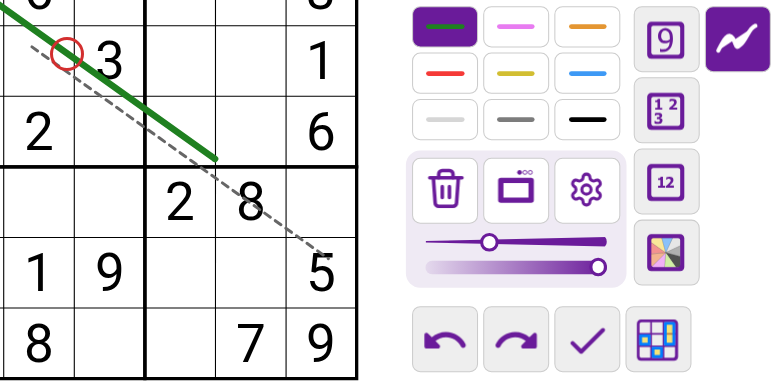
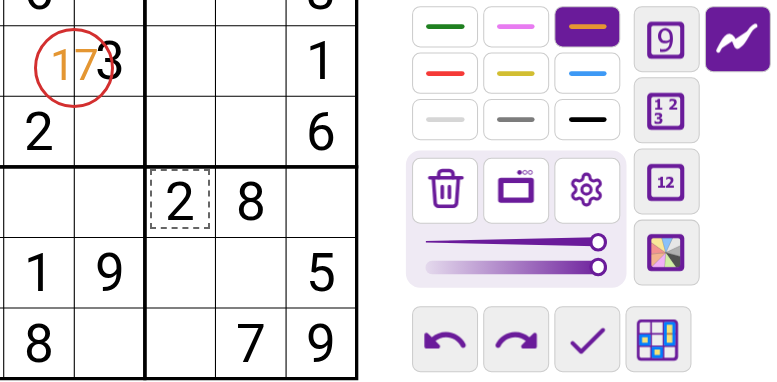
Draw Tool: keep a moved item on the board, check the live move, text-only Move on the site
Closes #403

diff --git a/site/draw-tool.html b/site/draw-tool.html
@@ -24,7 +24,7 @@
       <img class="slide" src="https://raw.githubusercontent.com/caneff/sudokupad-scripts/main/docs/research/draw-tool/draw-tool-slide-7-colors.png?v=c6a0412" alt="A color picker over each of the nine color buttons, with the line recolored from orange to teal" width="777" height="382">
       <img class="slide" src="https://raw.githubusercontent.com/caneff/sudokupad-scripts/main/docs/research/draw-tool/draw-tool-slide-8-erase.png?v=a87298f" alt="A red ring on a green line, where a right click lands" width="777" height="382">
       <img class="slide" src="https://raw.githubusercontent.com/caneff/sudokupad-scripts/main/docs/research/draw-tool/draw-tool-slide-9-erased.png?v=c35484b" alt="The board with the green line gone" width="777" height="382">
-      <img class="slide" src="https://raw.githubusercontent.com/caneff/sudokupad-scripts/main/docs/research/draw-tool/draw-tool-slide-10-move.png?v=ef0d270" alt="A green line dragged to a new place, its old place dashed, with a ring on the point it is held by" width="777" height="382">
+      <img class="slide" src="https://raw.githubusercontent.com/caneff/sudokupad-scripts/main/docs/research/draw-tool/draw-tool-slide-10-move.png?v=37f40f6" alt="An orange 17 dragged to a new place, its old place dashed, with a ring on the point it is held by" width="777" height="382">
     </div>
     <div class="slide-bar">
       <div class="slide-captions">
@@ -37,7 +37,7 @@
       <p class="slide-caption">Your own colors: hold a color button</p>
       <p class="slide-caption">Erase: right-click a line</p>
       <p class="slide-caption">The whole line is gone</p>
-      <p class="slide-caption">Move: drag a line, shape or text</p>
+      <p class="slide-caption">Move: drag a text</p>
       </div>
     </div>
   </div>
@@ -49,7 +49,7 @@
     <li><strong>Text</strong> <p>Click without dragging to type, such as a cage sum. Enter or a click elsewhere finishes it, Escape drops it, and a click on text changes it.</p></li>
     <li><strong>Colors of its own</strong> <p>Nine colors that belong to Draw Tool, not to SudokuPad's pen. Pick one with a click or the digit keys 1 to 9.</p></li>
     <li><strong>Size and opacity</strong> <p>Two sliders. A line, shape or text keeps the size and opacity it was drawn with.</p></li>
-    <li><strong>Move</strong> <p>Drag a line, shape or text to move it. A click on text still changes it, and a drag that starts on empty board still draws.</p></li>
+    <li><strong>Move</strong> <p>Drag a text to move it. A click on text still changes it, and a drag that starts anywhere else draws as before.</p></li>
     <li><strong>Erasing</strong> <p>Right-click a line, shape or text to erase it. Clear all, in the panel, erases everything.</p></li>
     <li><strong>Settings</strong> <p>Color presets, a color picker for each of the nine colors, and Copy and Paste to move them to another browser.</p></li>
     <li><strong>Stays on the cells</strong> <p>Drawings stay put, and stay visible when you switch back to entering digits.</p></li>

diff --git a/draw-tool.user.js b/draw-tool.user.js
@@ -261,7 +261,6 @@
     },
     text: (item, by) => ({ ...item, at: shifted(item.at, by) })
   }
-  // A copy of the item moved by the offset `by`.
   const movedItem = (item, by) => MOVES[item.kind](item, by)
 
   // A press whose every point stays within the slop of where it began.
@@ -1027,7 +1026,7 @@
     })
   }
 
-  // A left-drag in progress: a free line, or a shape when `shape` is set. `element` is what it shows on the board so far.
+  // A left-drag in progress: a free line, a shape when `shape` is set, or a move of the item `move` names. `element` is what it shows on the board so far.
   // `straight` is whether Shift is held, which draws a free line straight.
   let drag = null
   // A right-drag in progress: the last point it reached and whether it has erased an item yet. The right button's `buttons` bit holds it.
@@ -1189,16 +1188,16 @@
     save()
   }
 
-  // The offset of the drag's latest point from where it began.
   const dragOffset = () => {
     const [x, y] = drag.points[0]
     const [lastX, lastY] = drag.points[drag.points.length - 1]
     return [lastX - x, lastY - y]
   }
 
+  const applyMove = () => { drawing[drag.move.index] = movedItem(drag.move.item, dragOffset()) }
+
   function endMove () {
-    const { index, item } = drag.move
-    drawing[index] = movedItem(item, dragOffset())
+    applyMove()
     drag = null
     renderDrawing()
     save()
@@ -1323,11 +1322,13 @@
         return true
       }
       if (!drag) return false
+      // An item stays where a press on it can still reach it: a move ends at the last point on the board.
+      if (drag.move && !onBoard(event)) return true
       drag.points.push(toBoard(drag.layer, event))
       drag.straight = event.shiftKey
       if (drag.move) {
         if (!isClick(drag.points)) {
-          drawing[drag.move.index] = movedItem(drag.move.item, dragOffset())
+          applyMove()
           renderDrawing()
         }
       } else if (drag.shape) {

diff --git a/site/index.html b/site/index.html
@@ -114,7 +114,7 @@
         <img class="slide" src="https://raw.githubusercontent.com/caneff/sudokupad-scripts/main/docs/research/draw-tool/draw-tool-slide-7-colors.png?v=c6a0412" alt="A color picker over each of the nine color buttons, with the line recolored from orange to teal" width="777" height="382">
         <img class="slide" src="https://raw.githubusercontent.com/caneff/sudokupad-scripts/main/docs/research/draw-tool/draw-tool-slide-8-erase.png?v=a87298f" alt="A red ring on a green line, where a right click lands" width="777" height="382">
         <img class="slide" src="https://raw.githubusercontent.com/caneff/sudokupad-scripts/main/docs/research/draw-tool/draw-tool-slide-9-erased.png?v=c35484b" alt="The board with the green line gone" width="777" height="382">
-        <img class="slide" src="https://raw.githubusercontent.com/caneff/sudokupad-scripts/main/docs/research/draw-tool/draw-tool-slide-10-move.png?v=ef0d270" alt="A green line dragged to a new place, its old place dashed, with a ring on the point it is held by" width="777" height="382">
+        <img class="slide" src="https://raw.githubusercontent.com/caneff/sudokupad-scripts/main/docs/research/draw-tool/draw-tool-slide-10-move.png?v=37f40f6" alt="An orange 17 dragged to a new place, its old place dashed, with a ring on the point it is held by" width="777" height="382">
       </div>
       <div class="slide-bar">
         <div class="slide-captions">
@@ -127,7 +127,7 @@
         <p class="slide-caption">Your own colors: hold a color button</p>
         <p class="slide-caption">Erase: right-click a line</p>
         <p class="slide-caption">The whole line is gone</p>
-        <p class="slide-caption">Move: drag a line, shape or text</p>
+        <p class="slide-caption">Move: drag a text</p>
         </div>
       </div>
     </div>

diff --git a/test/site.test.js b/test/site.test.js
@@ -241,7 +241,7 @@ const PEN_SLIDES = [
 const DRAW_SLIDES = [
   ['1-line', 'Draw a line'], ['2-straight', 'Hold Shift for a straight line'], ['3-opacity', 'Size and opacity'], ['4-rectangle', 'Shape: rectangle'], ['5-ellipse', 'Shape: ellipse'],
   ['6-text', 'Left click to type text'], ['7-colors', 'Your own colors: hold a color button'], ['8-erase', 'Erase: right-click a line'], ['9-erased', 'The whole line is gone'],
-  ['10-move', 'Move: drag a line, shape or text']
+  ['10-move', 'Move: drag a text']
 ]
 const SHOWS = [
   { heading: 'Color by Digit', page: CBD, prefix: 'color-by-digit/color-by-digit-slide-', slides: CBD_SLIDES },
@@ -460,7 +460,7 @@ test(`${DRAW} lists what the script adds as a grid of short items, one per featu
     'Text Click without dragging to type, such as a cage sum. Enter or a click elsewhere finishes it, Escape drops it, and a click on text changes it.',
     "Colors of its own Nine colors that belong to Draw Tool, not to SudokuPad's pen. Pick one with a click or the digit keys 1 to 9.",
     'Size and opacity Two sliders. A line, shape or text keeps the size and opacity it was drawn with.',
-    'Move Drag a line, shape or text to move it. A click on text still changes it, and a drag that starts on empty board still draws.',
+    'Move Drag a text to move it. A click on text still changes it, and a drag that starts anywhere else draws as before.',
     'Erasing Right-click a line, shape or text to erase it. Clear all, in the panel, erases everything.',
     'Settings Color presets, a color picker for each of the nine colors, and Copy and Paste to move them to another browser.',
     'Stays on the cells Drawings stay put, and stay visible when you switch back to entering digits.',

diff --git a/test/draw-tool.test.js b/test/draw-tool.test.js
@@ -569,6 +569,6 @@ test('itemAt finds the topmost item under a press the way erase touches it, or -
   assert.equal(itemAt([lower, upper], [50, 0]), 1)
   assert.equal(itemAt([lower, upper], [0, 50]), 0)
   assert.equal(itemAt([lower, upper], [50, 50]), -1)
-  assert.equal(itemAt([lower, upper], [50, 0 + ERASE_TOLERANCE + 3 + 0.5]), -1)
+  assert.equal(itemAt([lower, upper], [50, ERASE_TOLERANCE + upper.width]), -1)
   assert.equal(itemAt([], [1, 1]), -1)
 })

diff --git a/GLOSSARY.md b/GLOSSARY.md
@@ -201,7 +201,7 @@
   a text reopens.
 - **shape** — a rectangle or an ellipse in a drawing, drawn as an outline by a drag in Shape mode, in a draw color, with its own
   width and opacity. Its box is exactly the drag's own box. Saved as an item of kind `shape`, which a Draw Tool before 0.11.0 reads as an unreadable drawing.
-- **Shape mode** — what a left-drag with Draw draws: free lines (Off), rectangles or ellipses. The **Shape button**, between
+- **Shape mode** — what a left-drag with Draw draws when it starts off every item (one that starts on an item **moves** it): free lines (Off), rectangles or ellipses. The **Shape button**, between
   Clear all and the gear, steps Off, Rectangle, Ellipse and draws the mode a press turns to, with a dot per mode filled for the one in force; the color buttons' swatches draw the one in force. It is saved under `DrawTool_shape`. A click
   still opens the text box in every mode.
 - **Size slider** and **Opacity slider** — Draw's two sliders on a light purple tray. Size sets the next stroke's width
@@ -209,4 +209,4 @@
   Neither changes an item already drawn; both are saved under `DrawTool_width` and `DrawTool_opacity`.
 - **erase** — Draw's right click, or right-drag as an extra: every stroke and text the pointer passes near, and every shape whose outline it passes near, is removed whole. Clear all erases the whole
   drawing, after asking.
-- **move** — Draw's left-drag that starts on an existing item (found the way erase finds one, the topmost): the item follows the pointer, and its stored coordinates change once, on release. A click with no drag does what it did before, and a drag that starts off every item draws.
+- **move** — Draw's left-drag that starts on an existing item (found the way erase finds one, the topmost): the item follows the pointer, and its stored coordinates change once, on release. A click with no drag opens a text box as any click does, and a drag that starts off every item draws.
